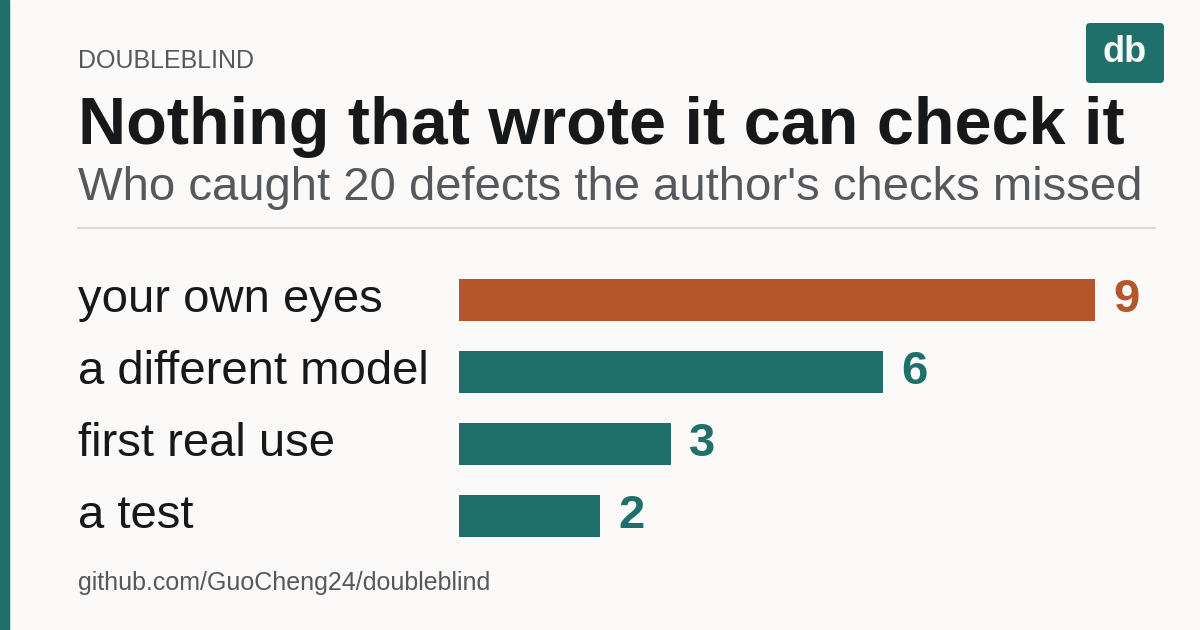
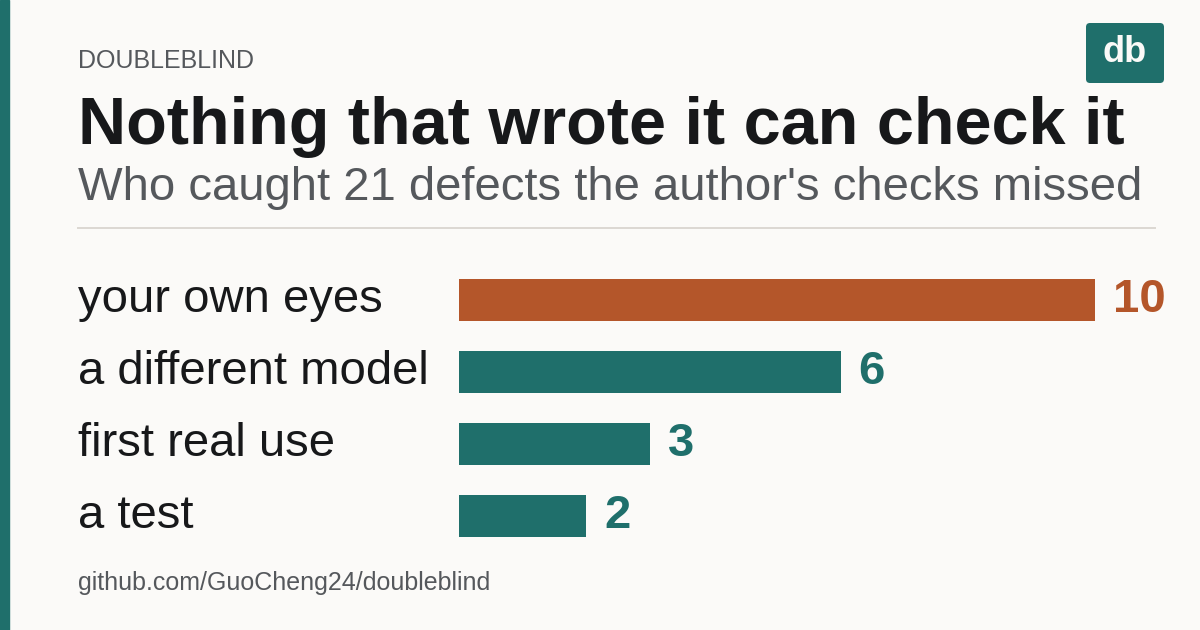
A rule is thin in one direction, and the check only knew about one of them
A card drew a dashed vertical threshold line through its own caption - straight
through "p = 0.549" - and both this auditor and the card's own acceptance test
passed it.

The rule check skipped any line whose bounding box was taller than eight pixels,
on the reasoning that a rule is thin. That is true of a rule, and the test was
written for horizontal ones, so the condition meant to identify rules excluded
every vertical one.

A line now counts as a rule when it is thin in either direction, the report says
which, and two tests cover a vertical rule through text and a vertical rule
clear of it. The twenty-first ledger entry, and the seventh in this repository.

diff --git a/tests/test_doubleblind.py b/tests/test_doubleblind.py
@@ -167,7 +167,7 @@ class Render(unittest.TestCase):
 
     def test_every_planted_defect_is_reported(self):
         found = " | ".join(self._audit("broken/figure.py"))
-        for phrase in ("undeclared artwork", "across a rule", "unreadable",
+        for phrase in ("undeclared artwork", "across a horizontal rule", "unreadable",
                        "contrast", "read as one word", "cannot draw"):
             self.assertIn(phrase, found, f"{phrase!r} not reported:\n{found}")
 
@@ -186,6 +186,41 @@ class Render(unittest.TestCase):
         plt.close(fig)
         self.assertGreater(with_axis, 0)
         self.assertEqual(without, 0, "a hidden axis still contributed text")
+
+    def test_a_vertical_rule_through_text_is_caught(self):
+        """The first version checked only for rules that are thin in height.
+
+        A vertical threshold line drawn through a caption passed every check and
+        was obvious the moment anyone looked at the render: a dashed line ran
+        straight through the p-value.
+        """
+        import matplotlib
+        matplotlib.use("Agg")
+        import matplotlib.pyplot as plt
+        from doubleblind.render import audit
+
+        def fig_with_rule(y0, y1):
+            fig = plt.figure(figsize=(12, 6.3), dpi=100)
+            fig.patch.set_facecolor("#fbfaf8")
+            ax = fig.add_axes([0, 0, 1, 1])
+            ax.set_xlim(0, 12)
+            ax.set_ylim(0, 6.3)
+            ax.axis("off")
+            ax.plot([6, 6], [y0, y1], color="#55585c", lw=2.4, ls=(0, (5, 4)))
+            ax.text(4.2, 2.0, "McNemar p = 0.549", fontsize=34, color="#17181a",
+                    va="center")
+            return fig
+
+        through = fig_with_rule(1.0, 5.0)
+        found = audit(through, verbose=False)
+        plt.close(through)
+        self.assertTrue(any("vertical rule" in p for p in found),
+                        f"a vertical rule through text was not reported: {found}")
+
+        clear = fig_with_rule(3.5, 5.0)
+        self.assertEqual(audit(clear, verbose=False), [],
+                         "a rule clear of the text must not be reported")
+        plt.close(clear)
 
     def test_contrast_matches_wcag(self):
         from doubleblind.render import contrast

diff --git a/doubleblind/render.py b/doubleblind/render.py
@@ -220,10 +220,21 @@ def audit(fig, scale=UNFURL_SCALE, min_ratio=4.5, ground=None, verbose=True):
             if len(xs) < 2 or ln.get_linestyle() == "None":
                 continue
             lb = ln.get_window_extent(r) if hasattr(ln, "get_window_extent") else None
-            if lb is None or lb.height > 8:        # near-horizontal rules only
+            if lb is None:
                 continue
-            if box.x0 < lb.x1 and box.x1 > lb.x0 and box.y0 < lb.y1 + 4 and box.y1 > lb.y0 - 4:
-                problems.append(f"{s[:32]!r} sits across a rule")
+            # A rule is thin in ONE direction, and the first version of this
+            # checked only for thin-in-height. A vertical threshold line drawn
+            # through a caption passed every check and was obvious in the
+            # render: a dashed line ran straight through "p = 0.549".
+            horizontal = lb.height <= 8
+            vertical = lb.width <= 8
+            if not (horizontal or vertical):
+                continue
+            pad = 4
+            if (box.x0 < lb.x1 + pad and box.x1 > lb.x0 - pad
+                    and box.y0 < lb.y1 + pad and box.y1 > lb.y0 - pad):
+                problems.append(
+                    f"{s[:32]!r} sits across a {'vertical' if vertical else 'horizontal'} rule")
                 break
 
         if not declared:

diff --git a/ledger/README.md b/ledger/README.md
@@ -78,7 +78,7 @@ A 37-check guard printed "every number on the page is re-derived from results/" 
 - **Caught by:** zero-context reviewer
 - **Check now:** the unclosed count is a first-class reported result and the sensitivity of the verdict to it is written to a results file
 
-## rendering  (6)
+## rendering  (7)
 
 ### `buried-labels`
 
@@ -145,6 +145,17 @@ The longest bar label ended three pixels from the bar it labelled, so at a glanc
 - **Why it could not see it:** The gap was between text and a filled rectangle rather than between two pieces of text, and it was positive. Every threshold in the audit was written for overlap, and three pixels of clearance is not overlap.
 - **Caught by:** human eye
 - **Check now:** the bars start at a measured offset past the widest rendered label instead of a hand-picked coordinate, so the gap cannot depend on how long the labels happen to be
+
+### `vertical-rule-through-text`
+
+*this repository's figure auditor*
+
+A social card drew a dashed vertical threshold line through its own caption - the line ran straight through 'p = 0.549'. The figure auditor passed it, as did the card's own acceptance test.
+
+- **Missed by:** a machine that recomputes
+- **Why it could not see it:** The rule check skipped any line whose bounding box was taller than eight pixels, on the reasoning that a rule is thin. That is true of a rule, and the test was written for horizontal ones only, so every vertical rule was excluded by the very condition meant to identify rules.
+- **Caught by:** human eye
+- **Check now:** a line counts as a rule when it is thin in EITHER direction, the report names which, and a test covers a vertical rule through text and a vertical rule clear of it
 
 ## staleness  (2)
 

diff --git a/README.md b/README.md
@@ -221,7 +221,7 @@ them and be called traced. `trace` says so when the pool gets large. Point
 
 [`ledger/`](ledger/) records real defects that shipped, each with the layer that
 missed it and why that layer could not have seen it. It is the part of this
-repository that cannot be regenerated, and it includes 6 defects in
+repository that cannot be regenerated, and it includes 7 defects in
 `doubleblind` itself - one of which disarmed a CI step for every document in
 the repository at once, one that only appeared when the package was installed
 into a clean virtualenv and the README's own quickstart was followed from
@@ -242,8 +242,8 @@ had credited 5 of them from a half-written trace. Counted as no-answer instead,
 three of four confidence intervals stopped containing the number being
 reproduced. The page's verdict turned on it and the page did not mention it.
 
-And the honest part: of 20 recorded defects, **9 were caught by a person
-looking at the rendered artifact** — 6 of those 9 rendering defects that no
+And the honest part: of 21 recorded defects, **10 were caught by a person
+looking at the rendered artifact** — 7 of those 10 rendering defects that no
 amount of number-checking would ever have reached. That is the bar
 `doubleblind render` exists to shrink, and the ledger is how you find out
 whether it does. That is the number this tooling
